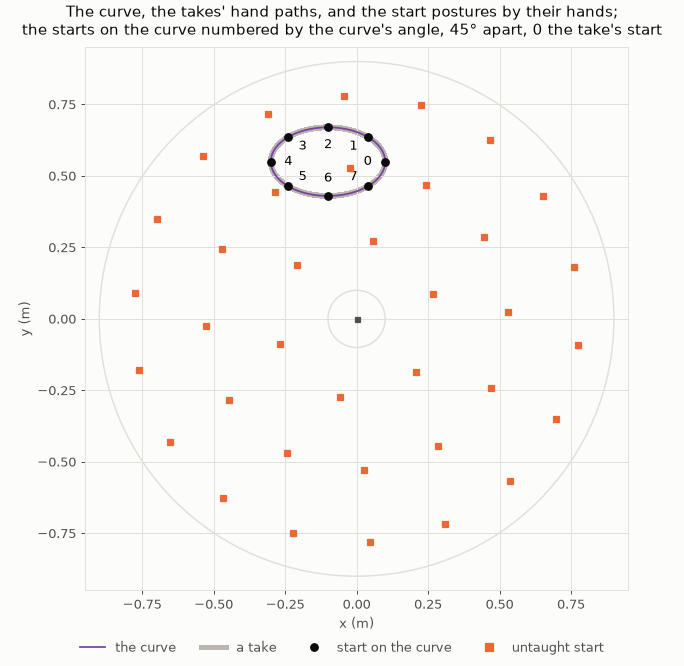
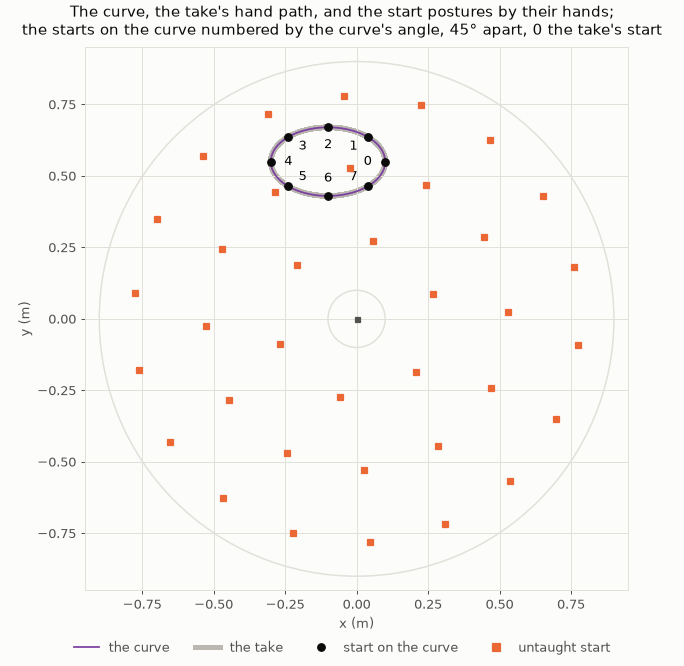
feat(reports): 026's script prints where the reference rests while the tip is held, and draws the hand's paths with the block

diff --git a/reports/026-a-periodic-motion-from-a-script/make_figures.py b/reports/026-a-periodic-motion-from-a-script/make_figures.py
@@ -7,10 +7,10 @@
 
 It reads the copies of the runs under ``results/`` (their configurations, run records, and CSV files), the takes
 under ``data/``, and the robot runs' logs and the takes the ESNs were trained on under the storage root, which are
-not kept in Git. Each take in ``TAKES`` has its own search, ESNs, and runs, and its own figures and tables. It
-prints the tables of the report and draws into ``results/summary``:
+not kept in Git. The take in ``TAKES``, the scripted one, has its own search, ESNs, and runs, and its own figures and
+tables. It prints the tables of the report and draws into ``results/summary``:
 
-- ``starts.png``: the curve, the takes' hand paths, and the two sets of start postures;
+- ``starts.png``: the curve, the take's hand path, and the two sets of start postures;
 - ``<take>_search.png``: the coarse search's settings by their runs that cycle, and the fine search's 20 best
   settings scored again with the untaught starts;
 - ``<take>_paths.png``: the hand's paths over the first 8 s, undisturbed, from the starts on the curve and from the
@@ -20,6 +20,8 @@ prints the tables of the report and draws into ``results/summary``:
   on the curve and from an untaught start, under the pushes at each size, and with the block;
 - ``<take>_off_curve.png``: the hand's distance from the curve over time, from the untaught starts, under the
   pushes, and with the block;
+- ``<take>_block_paths.png``: the hand's paths with the block from start 0, from its onset to 4 s after its release,
+  and the ESN's reference over the hold;
 - ``<take>_long.png``: claim 1's runs of 120 s: the hand's distance from the curve over time, and its last five
   loops.
 """
@@ -90,11 +92,14 @@ SCENARIOS: dict[str, tuple[str, tuple[int, ...] | None, tuple[float, float], str
 }
 NAMES = ("leak_rate", "spectral_radius", "input_scaling", "ridge")
 STILL_TURNS = 0.5  # a hand that turns less than this over a run's last five taught periods does not go around
+SPEED_SPAN = 0.5  # the reference's joint speed at the block's release is its change over this long before it (s)
+PATHS_AFTER = 4.0  # the block's hand paths are drawn to this long after the release (s)
 # The stretches of the workspace drawn, x and y (m): all of it, the curve and the paths from the starts on it in
 # their first 8 s, and the curve alone.
 WHOLE_VIEW = ((-0.95, 0.95), (-0.95, 0.95))
 STARTS_VIEW = ((-0.35, 0.45), (0.37, 0.73))
 CURVE_VIEW = ((-0.34, 0.14), (0.40, 0.70))
+BLOCK_VIEW = ((-0.36, 0.18), (0.34, 0.75))  # the curve and how far the released hands go off it
 
 TEXT_COLOR = "#52514e"
 TITLE_COLOR = "#0b0b0b"
@@ -121,6 +126,7 @@ def main() -> None:
             for channel in ("joints", "torques"):
                 figures[f"{name}_{scenario}_{channel}.png"] = functools.partial(plot_series, name, scenario, channel)
         figures[f"{name}_off_curve.png"] = functools.partial(plot_off_curve, name)
+        figures[f"{name}_block_paths.png"] = functools.partial(plot_block_paths, name)
         figures[f"{name}_long.png"] = functools.partial(plot_long, name)
     for file, plot in figures.items():
         plot().savefig(SUMMARY / file, dpi=DPI)
@@ -260,6 +266,35 @@ def off_curve(name: str, state: StateLog, begin: float, end: float) -> tuple[NDA
     return state.times[shown], distances_to_path(hand(state.channel("q")[shown]), cycle(name).curve)
 
 
+def before(state: StateLog, time: float) -> int:
+    """The index of a log's last sample before ``time`` (s)."""
+    return int(np.searchsorted(state.times, time - 1e-9)) - 1
+
+
+def at_release(name: str, run: str, arm: str, start: int) -> tuple[float, float, float, float]:
+    """Where an arm's reference is at the last sample before the block's release, from one start.
+
+    The four are the distance of the reference's hand from the arm's (m), the distance of the reference's hand from the
+    curve (m), the reference's fastest joint speed over the last ``SPEED_SPAN`` before the release (deg/s), and how far
+    the reference's hand moved from the onset to the release, the straight distance between its positions at the last
+    samples before them (m). The onset and the release are the run's ``[disturbance]``'s.
+    """
+    block = config(run_name(run))["disturbance"]
+    state = log(run, arm, start)
+    q, reference = state.channel("q"), state.channel("q_ref")
+    release, earlier, onset = (
+        before(state, time) for time in (block["release"], block["release"] - SPEED_SPAN, block["onset"])
+    )
+    arm_hand, reference_hand, reference_at_onset = hand(np.array([q[release], reference[release], reference[onset]]))
+    speed = np.degrees(np.abs(reference[release] - reference[earlier]).max()) / SPEED_SPAN
+    return (
+        float(np.linalg.norm(reference_hand - arm_hand)),
+        float(distances_to_path(reference_hand[None], cycle(name).curve)[0]),
+        float(speed),
+        float(np.linalg.norm(reference_hand - reference_at_onset)),
+    )
+
+
 @functools.cache
 def phase(name: str, run: str, arm: str, start: int) -> tuple[NDArray[np.float64], NDArray[np.float64]]:
     """The times (s) of one arm's log and the hand's angle about the curve's center then, unwrapped (rad)."""
@@ -347,7 +382,7 @@ def plot_starts() -> Figure:
     first = next(iter(TAKES))
     fig = Figure(figsize=(7.6, 7.4), facecolor=SURFACE_COLOR, layout="constrained")
     fig.suptitle(
-        "The curve, the takes' hand paths, and the start postures by their hands;"
+        "The curve, the take's hand path, and the start postures by their hands;"
         "\nthe starts on the curve numbered by the curve's angle, 45° apart, 0 the take's start",
         color=TITLE_COLOR,
     )
@@ -368,7 +403,7 @@ def plot_starts() -> Figure:
     ax.set_ylabel("y (m)", color=TEXT_COLOR)
     handles = [
         Line2D([], [], color=GOAL_COLOR, linewidth=1.4, label="the curve"),
-        Line2D([], [], color=TAUGHT_COLOR, linewidth=4.0, label="a take"),
+        Line2D([], [], color=TAUGHT_COLOR, linewidth=4.0, label="the take"),
         Line2D([], [], linestyle="", marker="o", color=TITLE_COLOR, label="start on the curve"),
         Line2D([], [], linestyle="", marker="s", color=REPLAY_COLOR, label="untaught start"),
     ]
@@ -655,6 +690,44 @@ def plot_off_curve(name: str) -> Figure:
         axes[row, 0].set_ylabel("from the curve (mm)", color=TEXT_COLOR)
     for ax in axes[-1]:
         ax.set_xlabel("time (s)", color=TEXT_COLOR)
+    return fig
+
+
+def plot_block_paths(name: str) -> Figure:
+    """The hand's paths with the block from start 0, from its onset to ``PATHS_AFTER`` after its release: a panel per
+    ESN, the ESN's arm over the replay's, and the ESN's reference over the hold."""
+    block = config(run_name(stem(name, "block_robot_esn", "1")))["disturbance"]
+    onset, release = block["onset"], block["release"]
+    fig = Figure(figsize=(11, 6.4), facecolor=SURFACE_COLOR, layout="constrained")
+    fig.suptitle(
+        f"{TAKES[name]['label']}: the hand's paths with the tip held from {onset:g} s to {release:g} s, from start 0,"
+        f" until {PATHS_AFTER:g} s after the release;\nthe ESN's arm (blue) over the replay's (orange); dashed: the"
+        " ESN's reference over the hold; purple: the curve",
+        color=TITLE_COLOR,
+    )
+    axes = fig.subplots(1, len(ESNS))
+    for ax, (label, n) in zip(axes, ESNS.items(), strict=True):
+        workspace(ax, name, BLOCK_VIEW, f"{label} and the replay")
+        run = stem(name, "block_robot_esn", n)
+        for arm, color in (("esn", ESN_COLORS[label]), ("replay", REPLAY_COLOR)):
+            state = log(run, arm, 0)
+            points = hand(state.channel("q")[window(state, onset, release + PATHS_AFTER)])
+            ax.plot(points[:, 0], points[:, 1], color=color, linewidth=1.2, zorder=ARM_ZORDERS[arm])
+            ax.plot(*points[0], marker="X", color=color, markeredgecolor=TITLE_COLOR, markersize=9, zorder=5)
+            if arm == "esn":
+                reference = hand(state.channel("q_ref")[window(state, onset, release)])
+                ax.plot(*reference.T, color=color, linewidth=1.2, linestyle="--", zorder=REFERENCE_ZORDER)
+        ax.set_xlabel("x (m)", color=TEXT_COLOR)
+    axes[0].set_ylabel("y (m)", color=TEXT_COLOR)
+    handles = [
+        Line2D([], [], color=color, linewidth=1.4, label=f"{label}'s arm") for label, color in ESN_COLORS.items()
+    ]
+    handles += [
+        Line2D([], [], color=TEXT_COLOR, linewidth=1.2, linestyle="--", label="the ESN's reference over the hold"),
+        Line2D([], [], color=REPLAY_COLOR, linewidth=1.4, label="the replay's arm"),
+        Line2D([], [], linestyle="", marker="X", color=TEXT_COLOR, markersize=9, label="where the tip is held"),
+    ]
+    fig.legend(handles=handles, loc="outside lower center", ncol=len(handles), frameon=False, labelcolor=TEXT_COLOR)
     return fig
 
 
@@ -988,6 +1061,28 @@ def print_block(name: str) -> None:
         print(
             f"  the ESN's smaller than the replay's: largest torque after in {smaller(esn, replay, 'torque_after_nm')},"
             f" largest off the curve after in {smaller(esn, replay, 'off_curve_after_m')}"
+        )
+    print(
+        "where the reference is at the last sample before the release: its hand from the arm's and from the curve,"
+        f" its fastest joint speed over the last {SPEED_SPAN:g} s, and how far its hand moved from the onset"
+    )
+    for label, n in ESNS.items():
+        run = stem(name, "block_robot_esn", n)
+        measures = {
+            arm: np.array([at_release(name, run, arm, int(row["start"])) for row in rows(run, arm)]).T.tolist()
+            for arm in ("esn", "replay")
+        }
+        for arm, (ahead, off, speed, moved) in measures.items():
+            print(
+                f"{label} {arm:6s}: from the arm's hand {spread(ahead, '.0f', 1e3)} mm, off the curve"
+                f" {spread(off, '.1f', 1e3)} mm, speed {spread(speed, '.1f')} deg/s, moved"
+                f" {spread(moved, '.0f', 1e3)} mm"
+            )
+        after = column(rows(run, "esn"), "off_curve_after_m")
+        farther = sum(a > r for a, r in zip(after, measures["esn"][1], strict=True))
+        print(
+            f"  the ESN's hand farther off the curve in the {config(run_name(run))['evaluation']['after_window']:g} s"
+            f" after the release than its reference was at the release: from {farther} of {len(after)} starts"
         )
 
 
